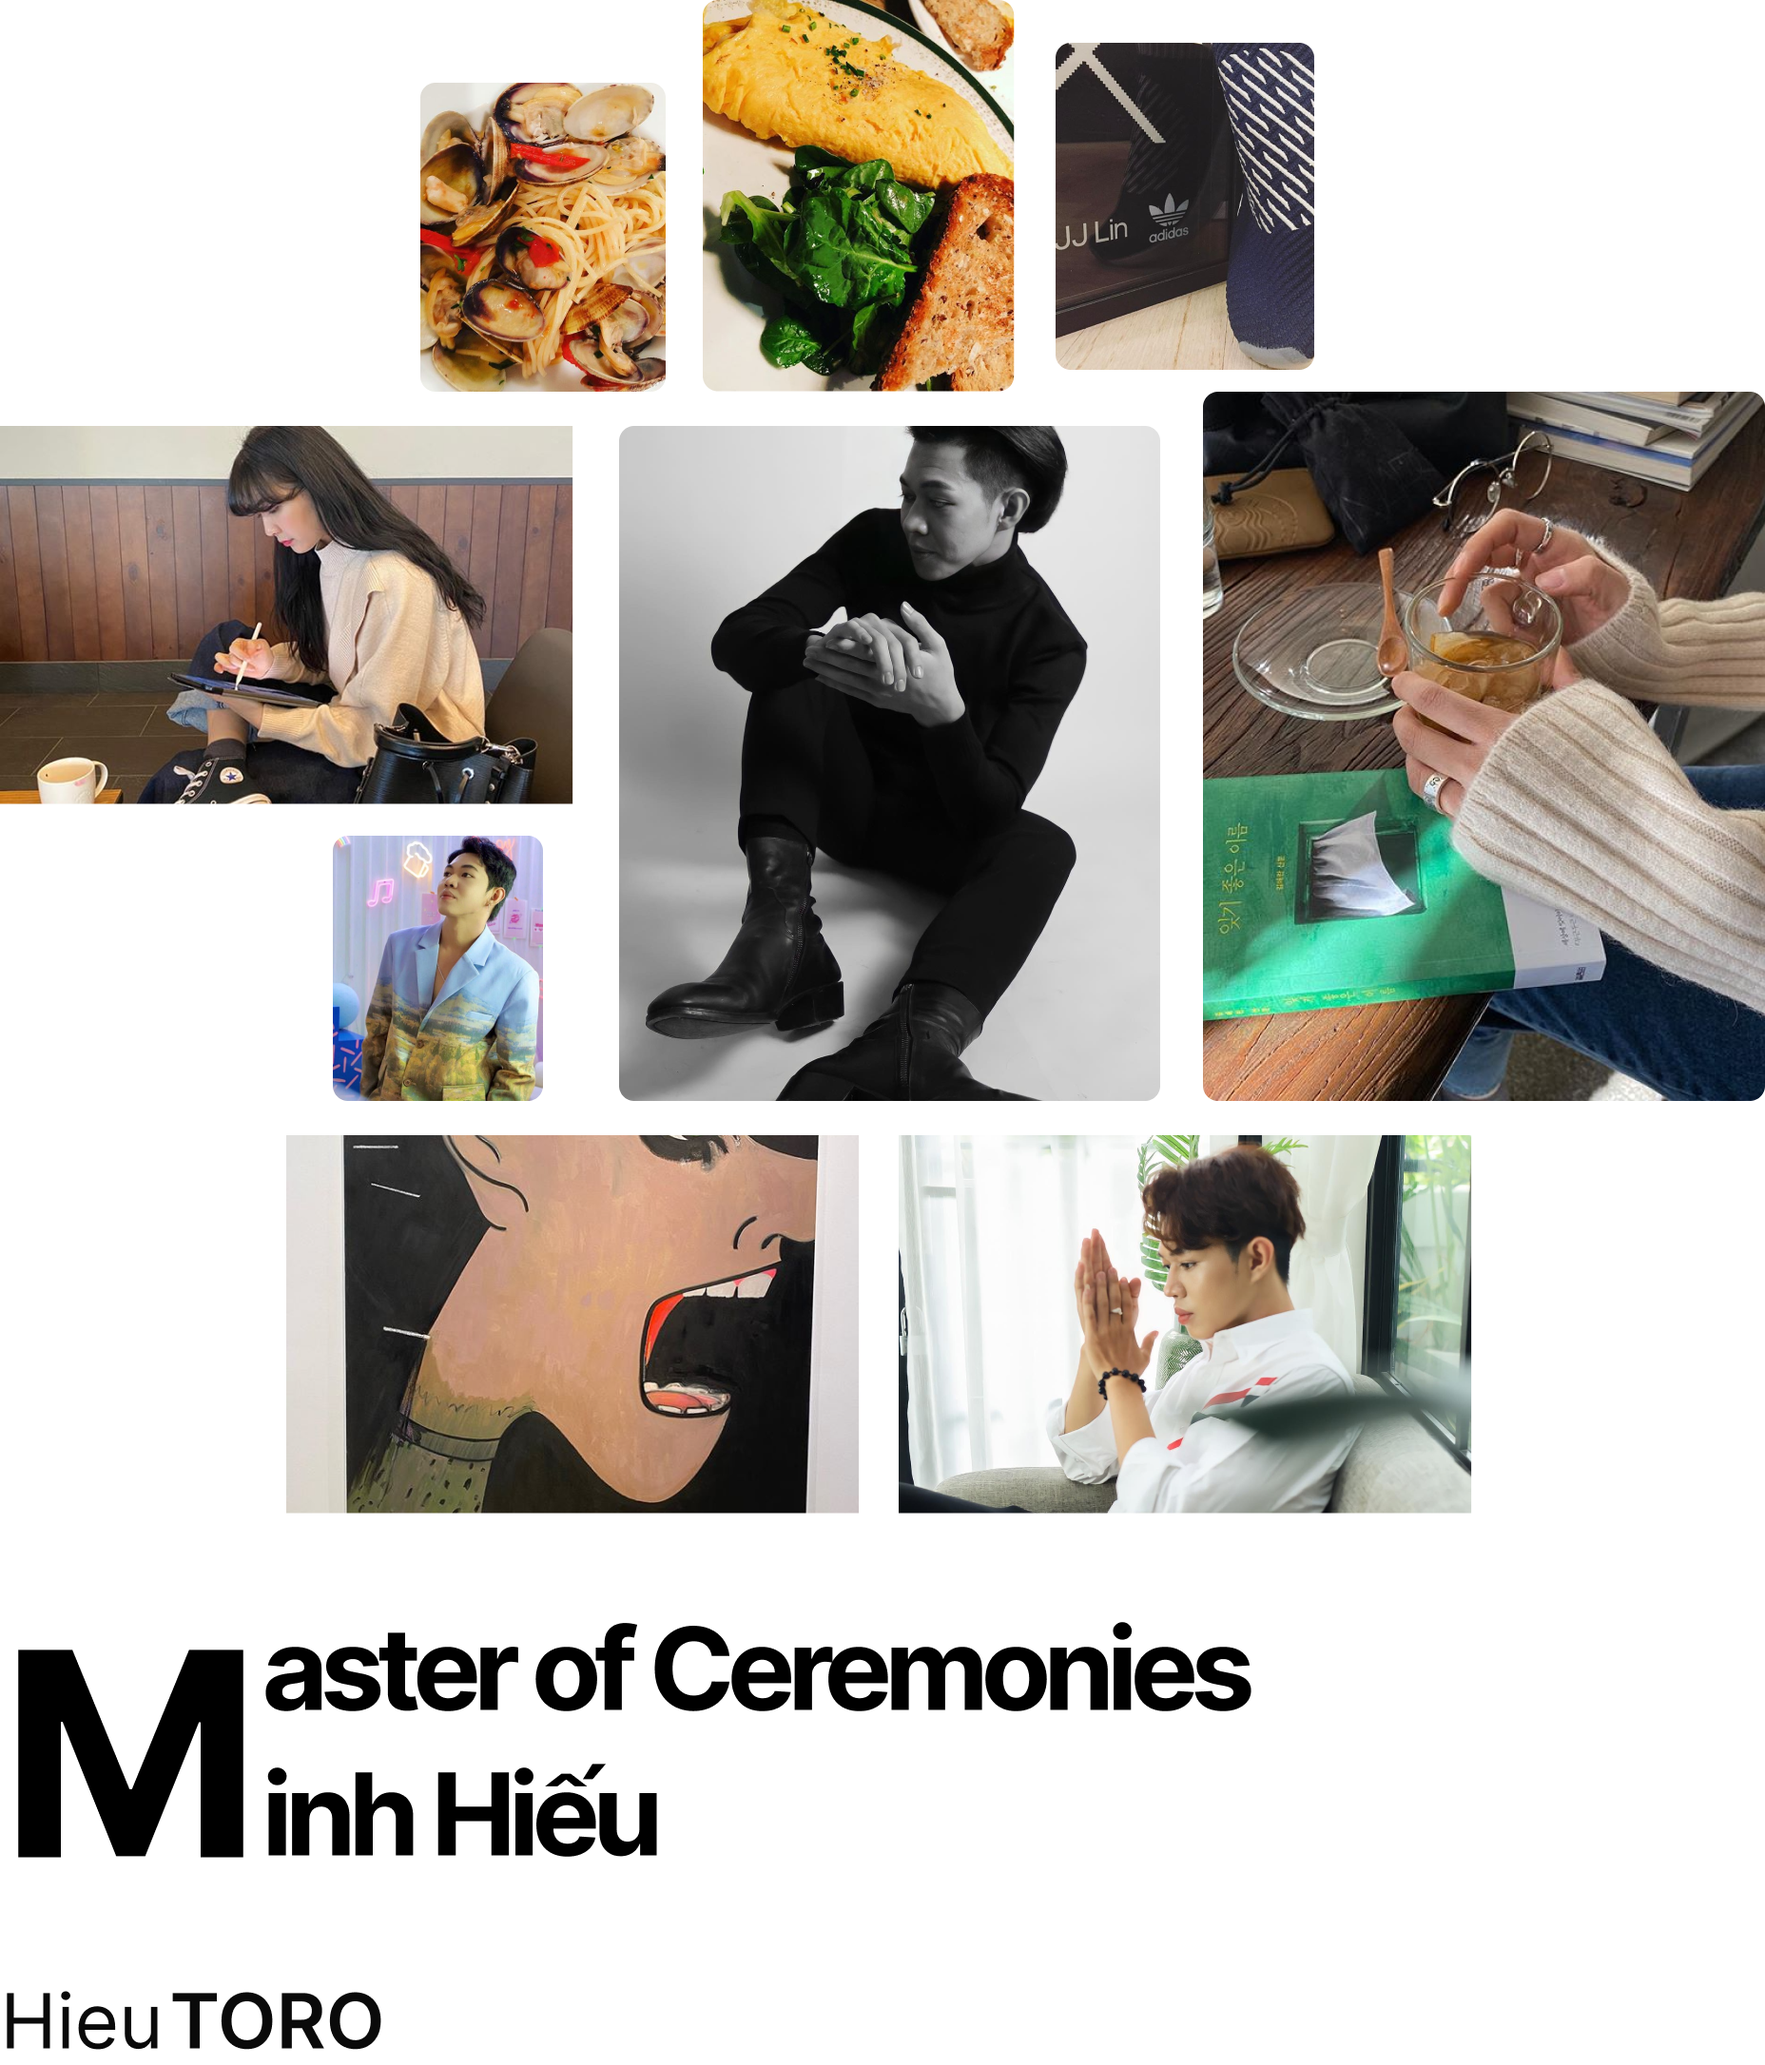
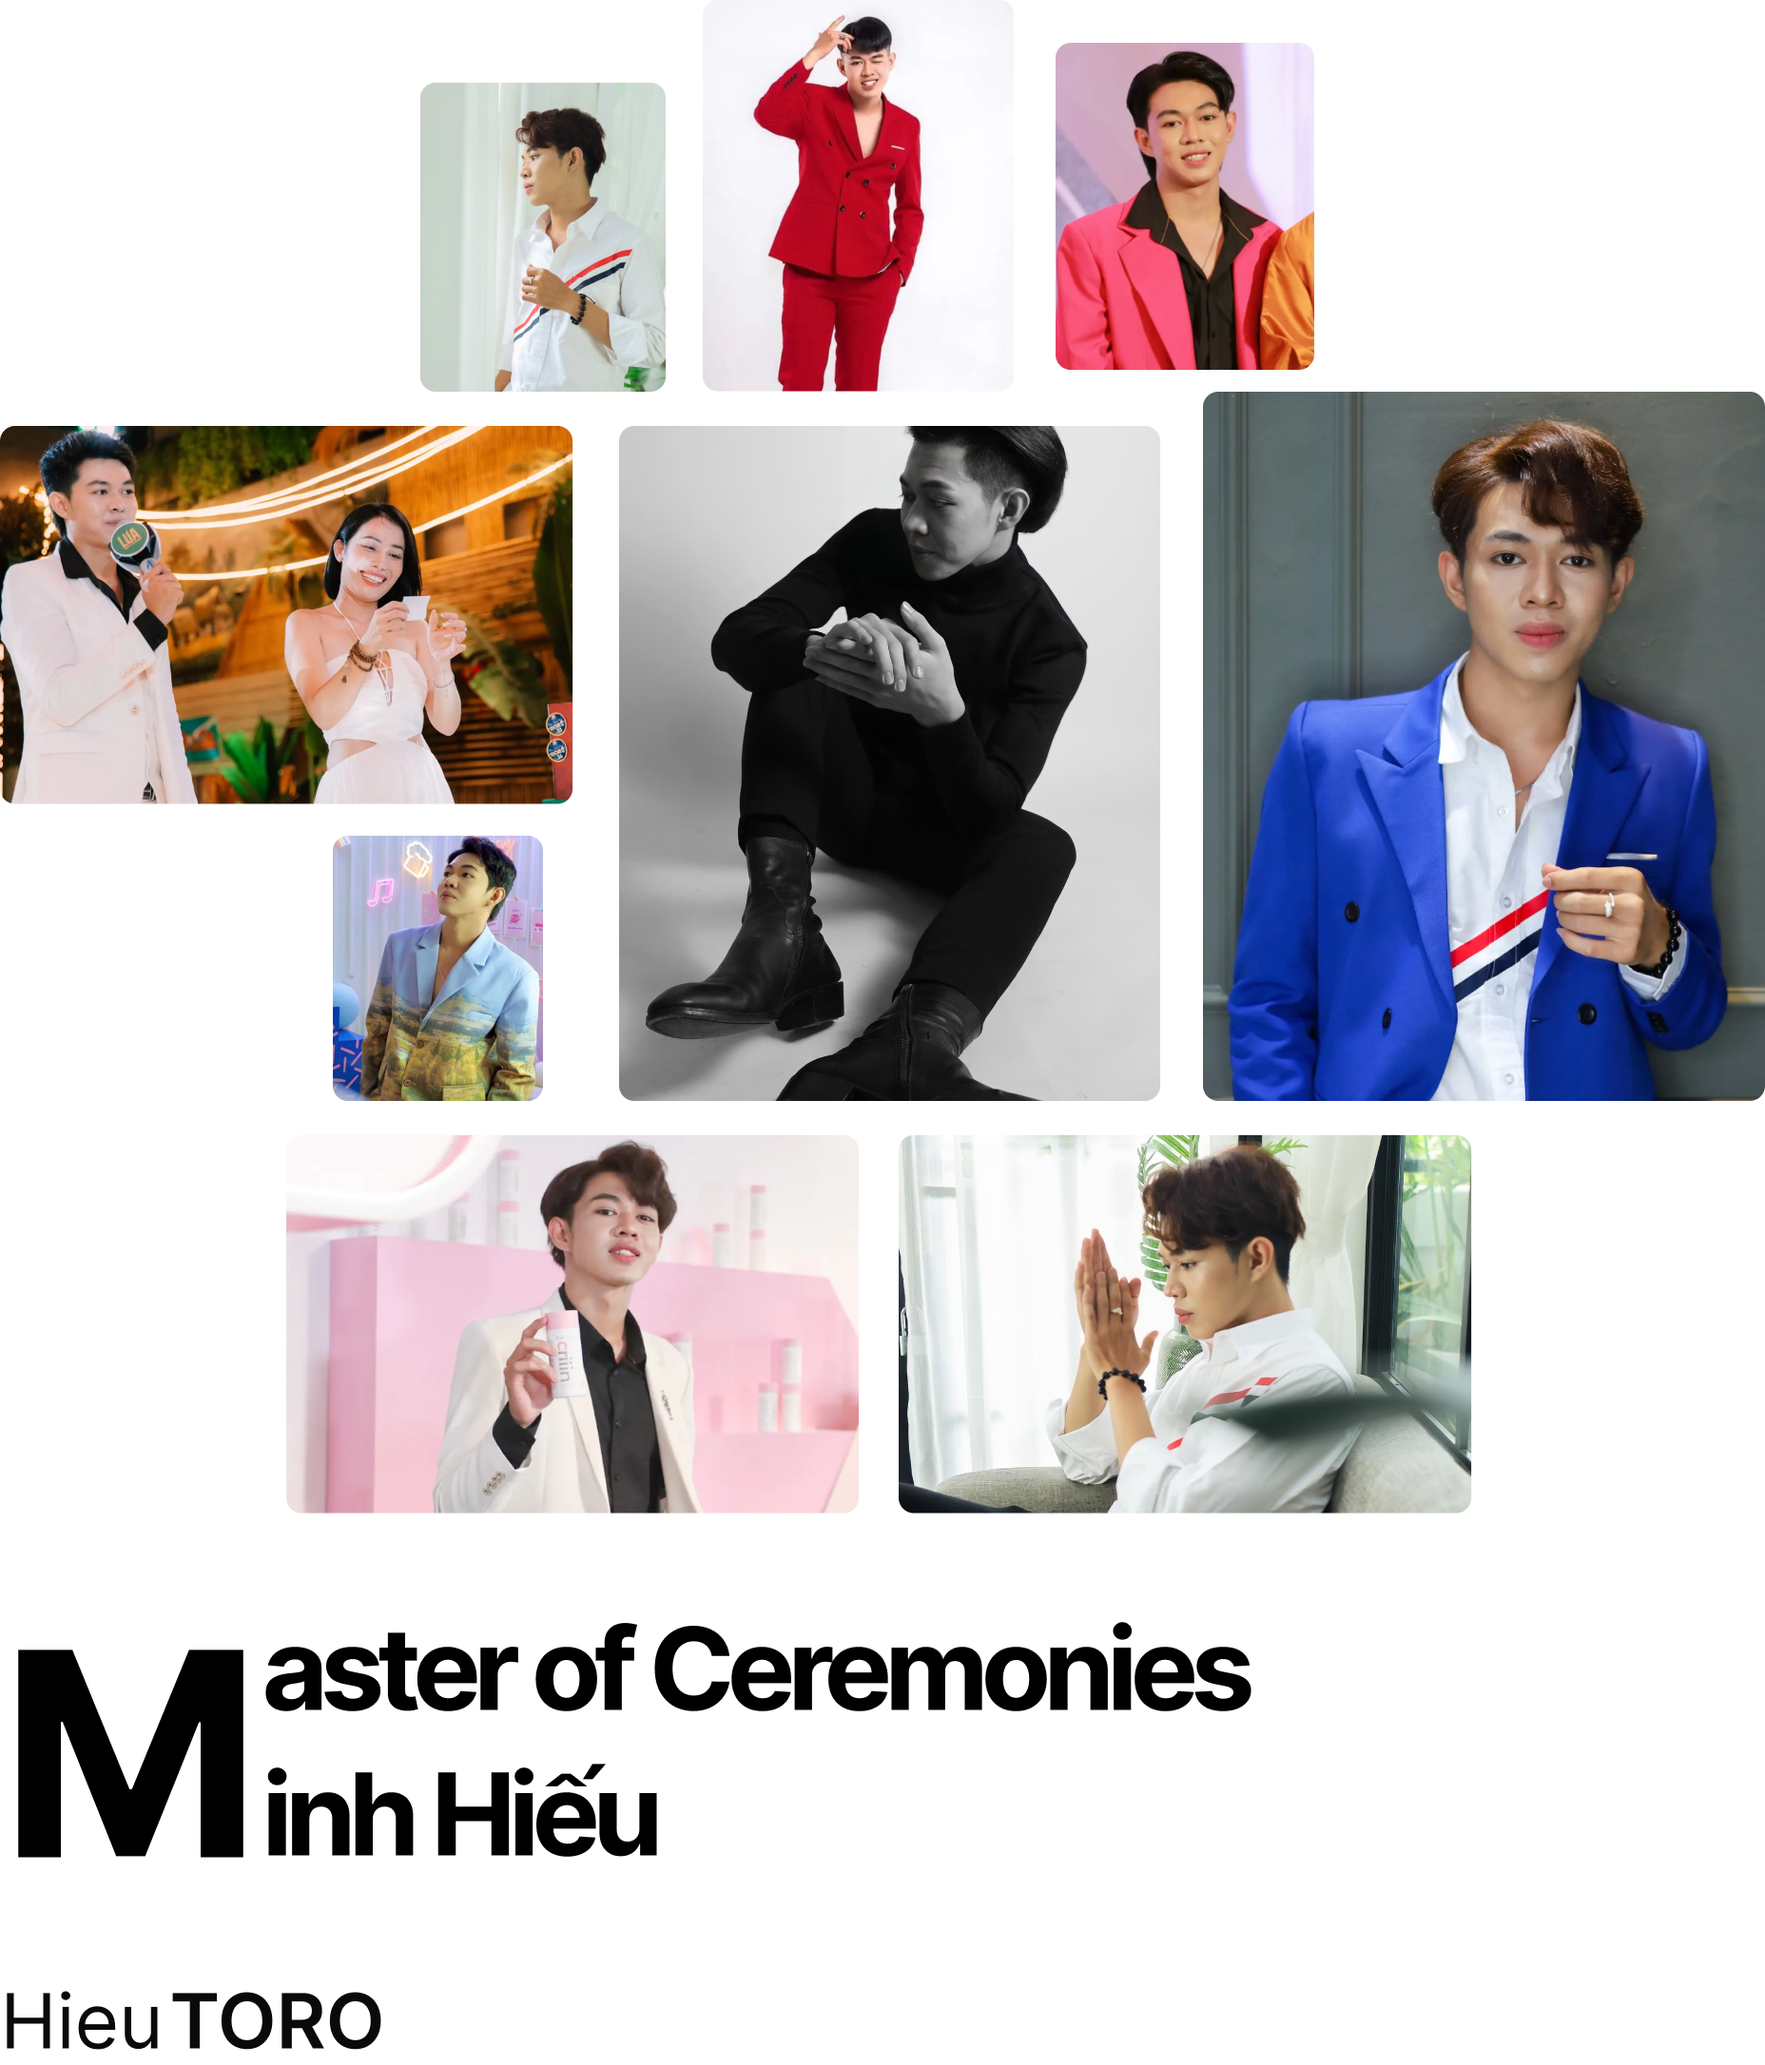
Add files via upload

Changed region(s): [[0.0, 0.0, 1.0, 0.5552], [0.1562, 0.5244, 0.5, 0.7403]]

diff --git a/index.html b/index.html
@@ -154,7 +154,7 @@
                                     <a href="project.html" class="link">
                                         <div class="portfolio-inner">
                                             <div class="img-box">
-                                                <img src="https://scontent.fsgn21-1.fna.fbcdn.net/v/t39.30808-6/461937810_122118738644476364_1388660749864794048_n.jpg?stp=cp6_dst-jpg&_nc_cat=100&ccb=1-7&_nc_sid=f727a1&_nc_ohc=1L9cRbuvuW4Q7kNvgElC-fD&_nc_ht=scontent.fsgn21-1.fna&_nc_gid=AKytm0TAr0Lkqza2bY4S7ZI&oh=00_AYDi1jpLp3ViilGleRJhPG9OM4lYJvLMdrEPG_9NXHtUxQ&oe=67053EDA">
+                                                <img src="https://scontent.fsgn2-5.fna.fbcdn.net/v/t39.30808-6/462367646_122119309442476364_3674419170960452962_n.jpg?_nc_cat=104&ccb=1-7&_nc_sid=f727a1&_nc_ohc=u4w60jTx5j4Q7kNvgEbrw9W&_nc_ht=scontent.fsgn2-5.fna&_nc_gid=AqeiYC0FVERYBqXPkVxSgSC&oh=00_AYD8DR8o37VlhNmsWuHpsgxYU13ZUQKK0PK5T-RasolW_Q&oe=67096D3C" alt="">
                                             </div>
                                             <h3>MC sự kiện | <span>Lemondace cosmetics</span></h3>
                                             <p> Fan meeting ST1 Quân AP</p>
@@ -165,7 +165,7 @@
                                     <a href="project.html" class="link">
                                         <div class="portfolio-inner">
                                             <div class="img-box">
-                                                <img src="https://scontent.fsgn21-1.fna.fbcdn.net/v/t39.30808-6/461776378_122118741140476364_6655779265000408834_n.jpg?stp=cp6_dst-jpg&_nc_cat=101&ccb=1-7&_nc_sid=f727a1&_nc_ohc=JnK3zlJrXNMQ7kNvgESv4SD&_nc_ht=scontent.fsgn21-1.fna&_nc_gid=AlHWZQEA1Es2Fg9WXI8k7Wp&oh=00_AYBqxVCpxFVas5mj2Z2AalC8VRCNN4bbZ-9yMz24ouixqw&oe=670545A0">
+                                                <img src="https://scontent.fsgn2-6.fna.fbcdn.net/v/t39.30808-6/462294202_122119303862476364_6080881988177184607_n.jpg?_nc_cat=111&ccb=1-7&_nc_sid=f727a1&_nc_ohc=AEReyXij9UYQ7kNvgGWMHaq&_nc_ht=scontent.fsgn2-6.fna&_nc_gid=AEcTGe7XOq_aJ2kRc5dvUs1&oh=00_AYCoqowgkvLnzc8e7QhyK5hm5nvkYVagudcJWG_DT5lMCQ&oe=67097FEF" alt="">
                                             </div>
                                             <h3>MC sự kiện | <span>Lak Luxury</span></h3>
                                             <p> Trang sức Lak Luxury</p>
@@ -187,7 +187,7 @@
                                     <a href="project.html" class="link">
                                         <div class="portfolio-inner">
                                             <div class="img-box">
-                                                <img src="https://scontent.fsgn21-1.fna.fbcdn.net/v/t39.30808-6/462096485_122118739874476364_8194567750413785195_n.jpg?stp=cp6_dst-jpg&_nc_cat=107&ccb=1-7&_nc_sid=f727a1&_nc_ohc=Sw3xbV6HLGEQ7kNvgHng4lP&_nc_ht=scontent.fsgn21-1.fna&_nc_gid=AHR9-Iv23T9vlV8et8RZ0mK&oh=00_AYD5ThjAVmQfiafNpVbw6d7P3F8FaKtp84wrD7WQUtEOLw&oe=67052901">
+                                                <img src="https://scontent.fsgn2-6.fna.fbcdn.net/v/t39.30808-6/462304397_122119309100476364_7954425100850662201_n.jpg?_nc_cat=111&ccb=1-7&_nc_sid=f727a1&_nc_ohc=GtvgaXLTFfAQ7kNvgGgXKfX&_nc_ht=scontent.fsgn2-6.fna&_nc_gid=A-i0eWneZ83ZMs8CpriVW12&oh=00_AYAYMDZejmXKpXK4IZqaauFeIEGBy5j524NHIvKKiAfNHA&oe=6709954E" alt="">
                                             </div>
                                             <h3>MC YearEnd Party | <span>AF Group</span></h3>
                                             <p>Year end Party AF Group</p>
@@ -198,7 +198,7 @@
                                     <a href="project.html" class="link">
                                         <div class="portfolio-inner">
                                             <div class="img-box">
-                                                <img src="https://scontent.fsgn21-1.fna.fbcdn.net/v/t39.30808-6/462032808_122118740270476364_3064123403296048494_n.jpg?stp=cp6_dst-jpg&_nc_cat=105&ccb=1-7&_nc_sid=f727a1&_nc_ohc=Ln9YMLvhz00Q7kNvgFqrMZh&_nc_ht=scontent.fsgn21-1.fna&_nc_gid=AKPnvHgWchlWslvkCr2wY9W&oh=00_AYBNyGwAd2LoFxwE9lKQQ6lfu2pPM0JHTB8-Onu7SKoUzw&oe=670539A3">
+                                                <img src="https://scontent.fsgn2-9.fna.fbcdn.net/v/t39.30808-6/462358086_122119308272476364_2170674579326541898_n.jpg?_nc_cat=106&ccb=1-7&_nc_sid=f727a1&_nc_ohc=0KIq6zfVXisQ7kNvgEK3u3-&_nc_ht=scontent.fsgn2-9.fna&_nc_gid=ApegSgNaB0VgQMCdiquJrJJ&oh=00_AYDiZWiR7HLf_s-mM6vR68rbynqFJMHyLqbWv15I_idF7g&oe=67096AED" alt="">
                                             </div>
                                             <h3>MC Truyền Hình | <span>Sự kiện</span></h3>
                                             <p>Giải chạy việt dã đài truyền hình Tỉnh Tây Ninh</p>
@@ -209,7 +209,7 @@
                                     <a href="project.html" class="link">
                                         <div class="project.html-inner">
                                             <div class="img-box">
-                                                <img src="https://scontent.fsgn21-1.fna.fbcdn.net/v/t39.30808-6/461950576_122118740576476364_4556603773219004703_n.jpg?stp=cp6_dst-jpg&_nc_cat=106&ccb=1-7&_nc_sid=f727a1&_nc_ohc=Y-73kA_syswQ7kNvgHhxuh6&_nc_ht=scontent.fsgn21-1.fna&_nc_gid=AO-_XyM9rISIkln6lKPlrrt&oh=00_AYC0NC0jN8MgyKZ-0ss-E4KL1OCLd9-0VP90Bn5sirXb5A&oe=67052F91">
+                                                <img src="https://scontent.fsgn2-9.fna.fbcdn.net/v/t39.30808-6/462367682_122119310012476364_5236869103238565687_n.jpg?_nc_cat=106&ccb=1-7&_nc_sid=f727a1&_nc_ohc=m40ZS2Gec-UQ7kNvgE_dOhV&_nc_ht=scontent.fsgn2-9.fna&_nc_gid=ABne4DecGrAtQ39mfd48x6L&oh=00_AYBY8TOJOsEodOQzaLGFkt1Qi8ye4VG3rjC34dfb9hRxbQ&oe=67098302" alt="">
                                             </div>
                                             <h3>Mc Music Show | <span>Sài Gòn ơi Show</span></h3>
                                             <p>Music show Saigon ơi</p>
@@ -339,6 +339,8 @@
     </script>
 
     <script src="js/main-style.js"></script>
+    <!-- <script src="js/sheet.js"></script>
+    <script src="https://sheetdb.io/s/t/0o07hphsnd0x7.js"></script> -->
 </body>
 
 </html>

diff --git a/blog.html b/blog.html
@@ -23,7 +23,7 @@
                 <nav
                     class="header-main d-flex justify-content-between align-items-center navbar navbar-expand-lg navbar-light">
                     <div class="header-logo">
-                        <a href="index.html" class="navbar-brand"><span>MC HIẾU TORO</span></a>
+                        <a href="index.html" class="navbar-brand">MC Minh Hiếu - Toro</a>
                     </div>
                     <button class="navbar-toggler" type="button" data-bs-toggle="collapse" data-bs-target="#navbarNav"
                         aria-controls="navbarNav" aria-expanded="false" aria-label="Toggle navigation">
@@ -39,13 +39,13 @@
                             <li class="menu-item nav-item"><a href="index.html#about" class="nav-link">Giới thiệu</a></li>
                             <li class="menu-item nav-item"><a href="blog.html" class="nav-link">Về tôi</a></li>
                             <li class="menu-item menu-item-has-children nav-item">
-                                <a href="portfolio.html" class="nav-link">Dự án cá nhân<i class="fas fa-chevron-down"></i></a>
+                                <a href="project.html" class="nav-link">Dự án cá nhân<i class="fas fa-chevron-down"></i></a>
                                 <ul class="sub-menu">
-                                    <li class="sub-menu-item"><a href="portfolio.html" class="nav-link">Master of Ceremonies</a></li>
-                                    <li class="sub-menu-item"><a href="portfolio.html" class="nav-link">Livestreams</a></li>
-                                    <li class="sub-menu-item"><a href="portfolio.html" class="nav-link">Điện ảnh</a></li>
-                                    <li class="sub-menu-item"><a href="portfolio.html" class="nav-link">Sự kiện</a></li>
-                                    <li class="sub-menu-item"><a href="portfolio.html" class="nav-link">Game show</a></li>
+                                    <li class="sub-menu-item"><a href="project.html" class="nav-link">Master of Ceremonies</a></li>
+                                    <li class="sub-menu-item"><a href="project.html" class="nav-link">Livestreams</a></li>
+                                    <li class="sub-menu-item"><a href="project.html" class="nav-link">Điện ảnh</a></li>
+                                    <li class="sub-menu-item"><a href="project.html" class="nav-link">Sự kiện</a></li>
+                                    <li class="sub-menu-item"><a href="project.html" class="nav-link">Game show</a></li>
                                 </ul>
                             </li>
                             <li class="menu-item"><a href="index.html#contact" class="nav-link">Liên hệ</a></li>
@@ -78,28 +78,25 @@
             </div>
             <div class="container">
                 <div class="row mb-5 position-relative row-box">
-                    <div class="col-md-7 column-box">
+                    <div class="col-md-5 column-box">
                         <div class="blog-box">
-                            <a href="https://www.diarytale.com/love-for-imperfect-things/" target="_blank" class="link">
-                                <img src="images/blog1.jpg">
-                            </a>
+                                <img src="https://scontent.fsgn2-10.fna.fbcdn.net/v/t39.30808-6/462302775_122119302932476364_7398824880416996842_n.jpg?_nc_cat=109&ccb=1-7&_nc_sid=f727a1&_nc_ohc=nyb19QvmFIAQ7kNvgGmUsv0&_nc_ht=scontent.fsgn2-10.fna&_nc_gid=Arppmb5fhHSUX9cmHrlClza&oh=00_AYAbG8ZAP_-qsGfqXj1J2AXbgWDaXtl-k-WuHmtBlqdUOg&oe=67098D5C">
                         </div>
                     </div>
-                    <div class="col-md-5">
+                    <div class="col-md-7">
                         <div class="blog-text">
                             <a href="https://www.diarytale.com/love-for-imperfect-things/" target="_blank" class="link">
-                                <span>Review Book</span>
-                                <h2>Love for Imperfect Things by Haemin Sunim</h2>
-                                <p>The advice in our life is like salt in our food because each and every action is
-                                    accompanied by someone’s advice or ourselves’s advice to complete the action. On the
-                                    contrary, many don’t like to get advice, I am one of the kinds where I like to get
-                                    advice from myself and in some very life-changing decisions, I’ll seek my parents
-                                    other than that I hate getting advice.</p>
+                                <span>Hiếu Toro - Master of Ceremonies</span>
+                                <h2>Huỳnh Đặng Minh Hiếu</h2>
+                                <p>MC Minh Hiếu ( Hiếu Toro )
+                                    1m77
+                                    Đa dạng , trẻ trung, năng động trong cách dẫn dắt chương trình
+                                    Thí sinh được yêu thích nhất của Người dẫn chương trình Phát Thanh-Truyền hình 2021</p>
                             </a>
                         </div>
                     </div>
                 </div>
-                <div class="row mb-5">
+                <!-- <div class="row mb-5">
                     <div class="col-md-6 col-lg-4">
                         <div class="blog-item">
                             <div class="blog-box">
@@ -116,9 +113,9 @@
                                 </a>
                             </div>
                         </div>
-                    </div>
+                    </div> -->
 
-                    <div class="col-md-6 col-lg-4">
+                    <!-- <div class="col-md-6 col-lg-4">
                         <div class="blog-item">
                             <div class="blog-box">
                                 <a href="https://matcha-jp.com/en/2593" target="_blank" class="link">
@@ -215,7 +212,7 @@
                     </div>
                 </div>
             </div>
-        </section>
+        </section> -->
 
 
         <footer class="footer">
